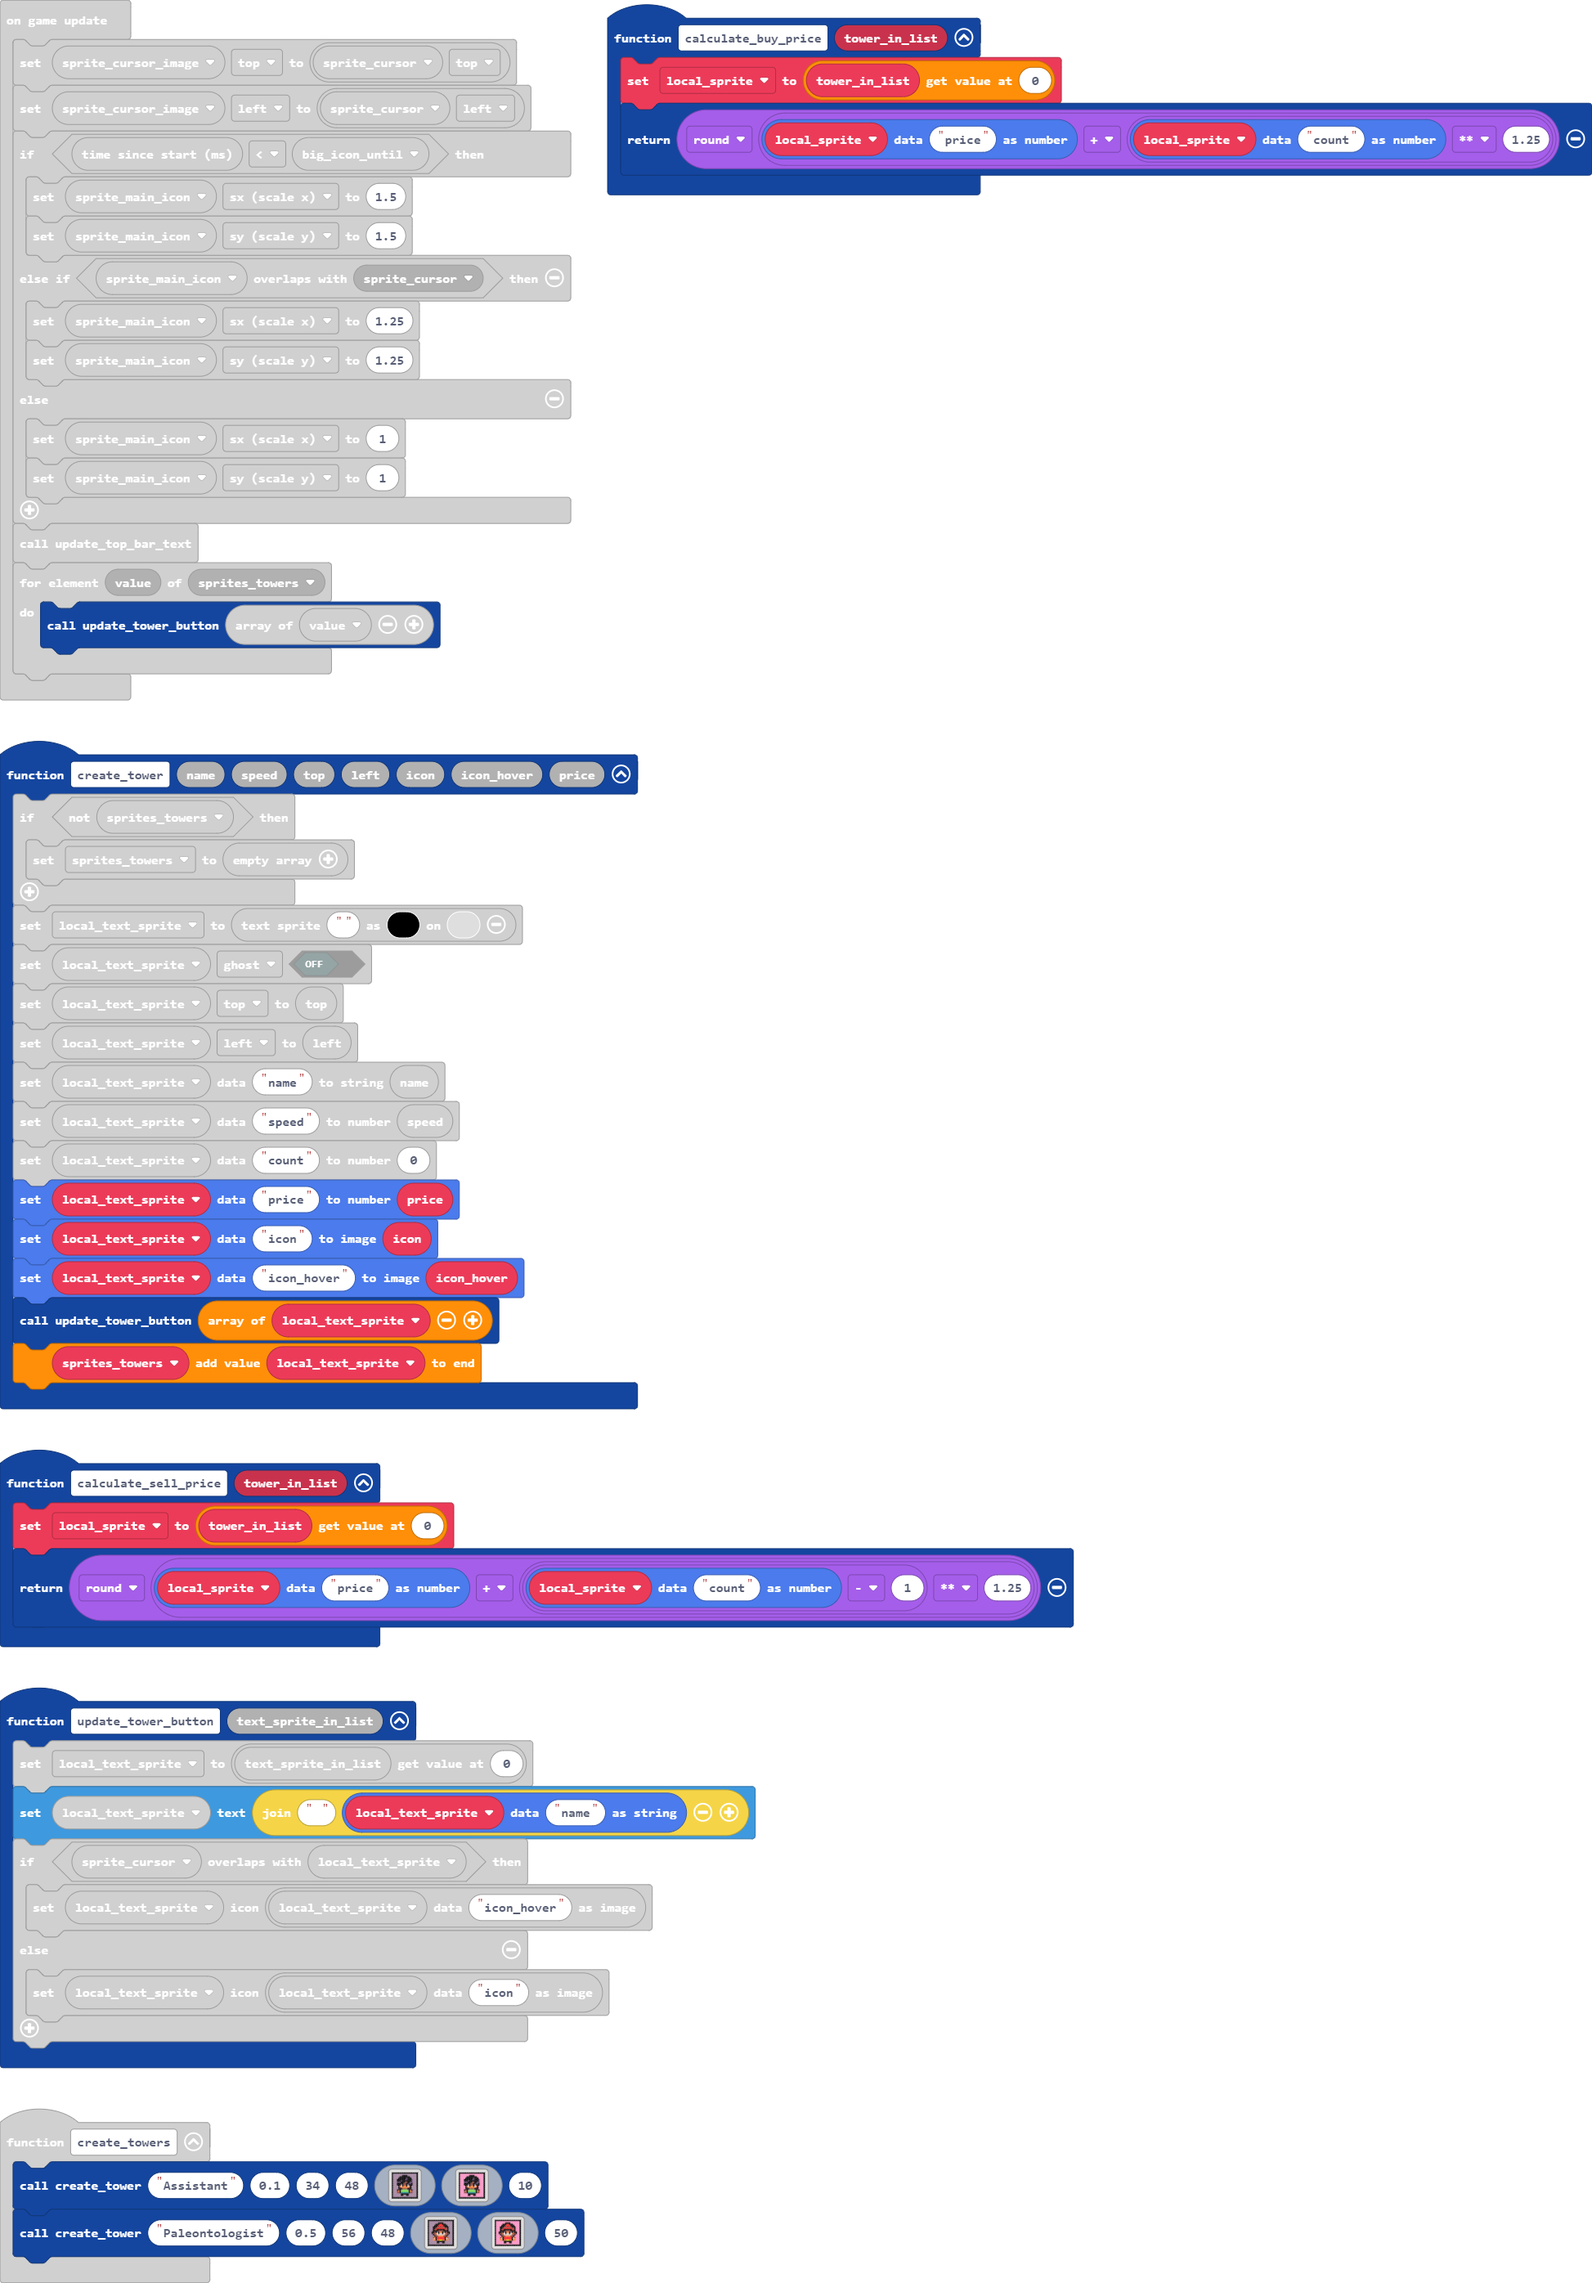
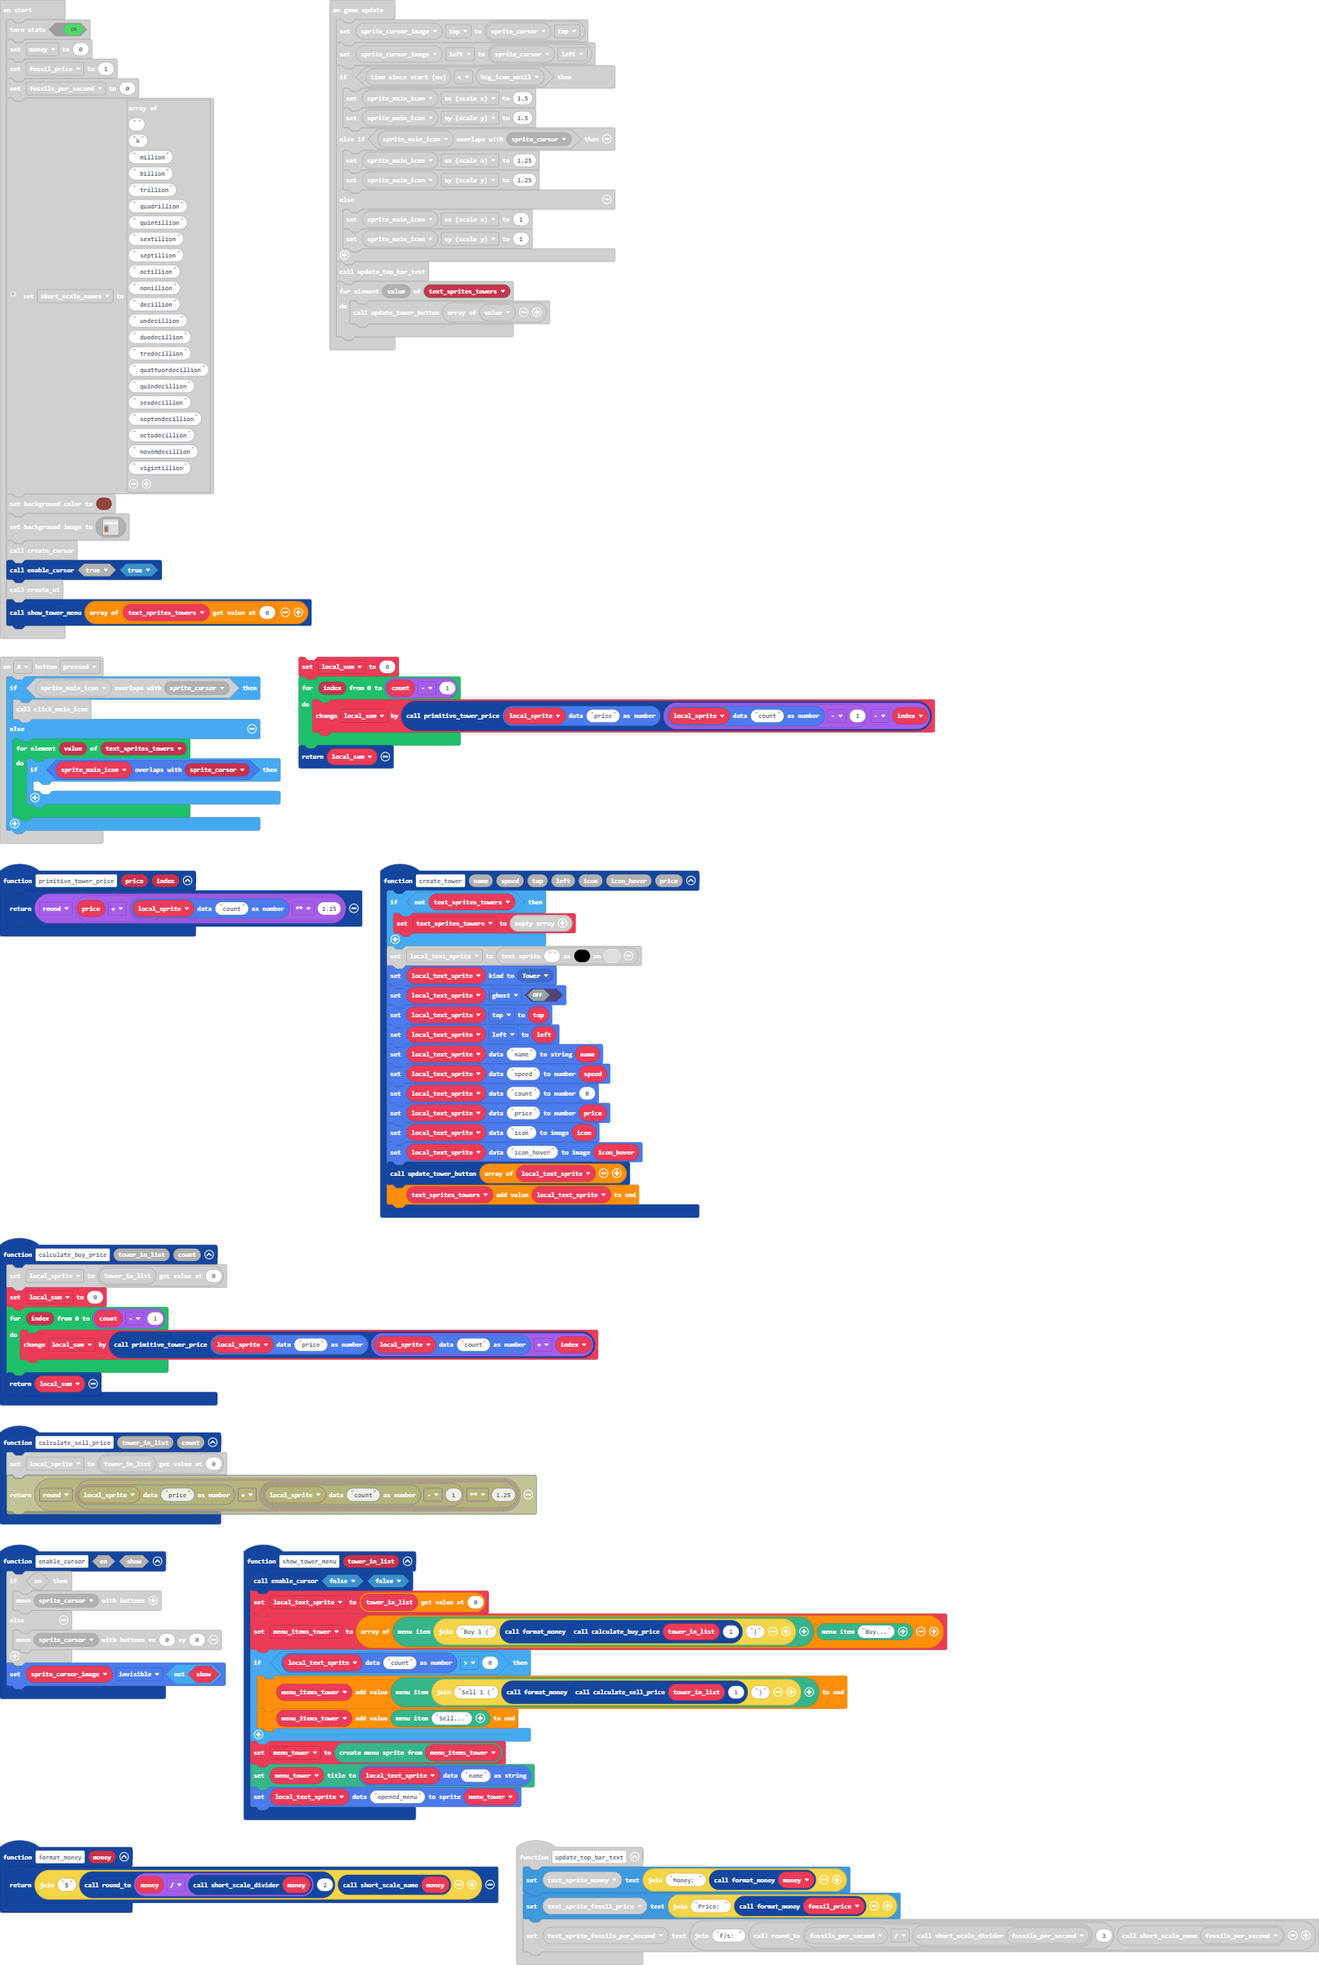
Un-styled menu

diff --git a/main.ts b/main.ts
@@ -1,3 +1,9 @@
+namespace SpriteKind {
+    export const Tower = SpriteKind.create()
+}
+function format_money (money: number) {
+    return "$" + round_to(money / short_scale_divider(money), 2) + short_scale_name(money)
+}
 function create_top_section () {
     text_sprite_money = create_label("", 3, 3)
     text_sprite_fossil_price = create_label("", 12, 3)
@@ -19,6 +25,12 @@ function create_label (text: string, top: number, left: number) {
 controller.A.onEvent(ControllerButtonEvent.Pressed, function () {
     if (sprite_main_icon.overlapsWith(sprite_cursor)) {
         click_main_icon()
+    } else {
+        for (let value of text_sprites_towers) {
+            if (sprite_main_icon.overlapsWith(sprite_cursor)) {
+            	
+            }
+        }
     }
 })
 function short_scale_divider (num: number) {
@@ -33,14 +45,26 @@ function create_towers () {
     create_tower("Assistant", 0.1, 34, 48, assets.image`assistant_icon`, assets.image`assistant_icon_selected`, 10)
     create_tower("Paleontologist", 0.5, 56, 48, assets.image`paleontologist_icon`, assets.image`paleontologist_icon_selected`, 50)
 }
+function show_tower_menu (tower_in_list: TextSprite[]) {
+    enable_cursor(false, false)
+    local_text_sprite = tower_in_list[0]
+    menu_items_tower = [miniMenu.createMenuItem("Buy 1 (" + format_money(calculate_buy_price(tower_in_list, 1)) + ")"), miniMenu.createMenuItem("Buy...")]
+    if (sprites.readDataNumber(local_text_sprite, "count") > 0) {
+        menu_items_tower.push(miniMenu.createMenuItem("Sell 1 (" + format_money(calculate_sell_price(tower_in_list, 1)) + ")"))
+        menu_items_tower.push(miniMenu.createMenuItem("Sell..."))
+    }
+    menu_tower = miniMenu.createMenuFromArray(menu_items_tower)
+    menu_tower.setTitle(sprites.readDataString(local_text_sprite, "name"))
+    sprites.setDataSprite(local_text_sprite, "opened_menu", menu_tower)
+}
 function create_main_icon () {
     sprite_main_icon = sprites.create(assets.image`shovel`, SpriteKind.Player)
     sprite_main_icon.left = 10
     sprite_main_icon.y = 85
 }
 function update_top_bar_text () {
-    text_sprite_money.setText("Money: $" + round_to(money / short_scale_divider(money), 2) + short_scale_name(money))
-    text_sprite_fossil_price.setText("Price: $" + round_to(fossil_price / short_scale_divider(fossil_price), 2) + short_scale_name(fossil_price))
+    text_sprite_money.setText("Money: " + format_money(money))
+    text_sprite_fossil_price.setText("Price: " + format_money(fossil_price))
     text_sprite_fossils_per_second.setText("F/s: " + round_to(fossils_per_second / short_scale_divider(fossils_per_second), 3) + short_scale_name(fossils_per_second))
 }
 function create_cursor () {
@@ -51,9 +75,13 @@ function create_cursor () {
     sprite_cursor_image.setFlag(SpriteFlag.Ghost, true)
     sprite_cursor_image.z = 100
 }
-function calculate_sell_price (tower_in_list: Sprite[]) {
+function calculate_sell_price (tower_in_list: Sprite[], count: number) {
     local_sprite = tower_in_list[0]
-    return Math.round(sprites.readDataNumber(local_sprite, "price") + (sprites.readDataNumber(local_sprite, "count") - 1) ** 1.25)
+    local_sum = 0
+    for (let index = 0; index <= count - 1; index++) {
+        local_sum += primitive_tower_price(sprites.readDataNumber(local_sprite, "price"), sprites.readDataNumber(local_sprite, "count") - 1 - index)
+    }
+    return local_sum
 }
 function update_tower_button (text_sprite_in_list: TextSprite[]) {
     local_text_sprite = text_sprite_in_list[0]
@@ -75,26 +103,35 @@ function short_scale_name (num: number) {
     }
     return 1
 }
+function primitive_tower_price (price: number, index: number) {
+    return Math.round(price + sprites.readDataNumber(local_sprite, "count") ** 1.25)
+}
 function click_main_icon () {
     big_icon_until = game.runtime() + 100
     money += fossil_price
 }
-function enable_cursor (en: boolean) {
+function enable_cursor (en: boolean, show: boolean) {
     if (en) {
         controller.moveSprite(sprite_cursor)
     } else {
         controller.moveSprite(sprite_cursor, 0, 0)
     }
+    sprite_cursor_image.setFlag(SpriteFlag.Invisible, !(show))
 }
-function calculate_buy_price (tower_in_list: Sprite[]) {
+function calculate_buy_price (tower_in_list: Sprite[], count: number) {
     local_sprite = tower_in_list[0]
-    return Math.round(sprites.readDataNumber(local_sprite, "price") + sprites.readDataNumber(local_sprite, "count") ** 1.25)
+    local_sum = 0
+    for (let index = 0; index <= count - 1; index++) {
+        local_sum += primitive_tower_price(sprites.readDataNumber(local_sprite, "price"), sprites.readDataNumber(local_sprite, "count") + index)
+    }
+    return local_sum
 }
 function create_tower (name: string, speed: number, top: number, left: number, icon: Image, icon_hover: Image, price: number) {
-    if (!(sprites_towers)) {
-        sprites_towers = []
+    if (!(text_sprites_towers)) {
+        text_sprites_towers = []
     }
     local_text_sprite = textsprite.create("", 0, 15)
+    local_text_sprite.setKind(SpriteKind.Tower)
     local_text_sprite.setFlag(SpriteFlag.Ghost, false)
     local_text_sprite.top = top
     local_text_sprite.left = left
@@ -105,18 +142,21 @@ function create_tower (name: string, speed: number, top: number, left: number, i
     sprites.setDataImageValue(local_text_sprite, "icon", icon)
     sprites.setDataImageValue(local_text_sprite, "icon_hover", icon_hover)
     update_tower_button([local_text_sprite])
-    sprites_towers.push(local_text_sprite)
+    text_sprites_towers.push(local_text_sprite)
 }
-let sprites_towers: TextSprite[] = []
 let big_icon_until = 0
+let local_sum = 0
 let local_sprite: Sprite = null
 let sprite_cursor_image: Sprite = null
+let menu_tower: miniMenu.MenuSprite = null
+let menu_items_tower: miniMenu.MenuItem[] = []
 let sprite_cursor: Sprite = null
 let sprite_main_icon: Sprite = null
 let local_text_sprite: TextSprite = null
 let text_sprite_fossils_per_second: TextSprite = null
 let text_sprite_fossil_price: TextSprite = null
 let text_sprite_money: TextSprite = null
+let text_sprites_towers: TextSprite[] = []
 let short_scale_names: string[] = []
 let fossils_per_second = 0
 let fossil_price = 0
@@ -154,8 +194,9 @@ short_scale_names = [
 scene.setBackgroundColor(14)
 scene.setBackgroundImage(assets.image`background`)
 create_cursor()
-enable_cursor(true)
+enable_cursor(true, true)
 create_ui()
+show_tower_menu([text_sprites_towers[0]])
 game.onUpdate(function () {
     sprite_cursor_image.top = sprite_cursor.top
     sprite_cursor_image.left = sprite_cursor.left
@@ -170,7 +211,7 @@ game.onUpdate(function () {
         sprite_main_icon.sy = 1
     }
     update_top_bar_text()
-    for (let value of sprites_towers) {
+    for (let value of text_sprites_towers) {
         update_tower_button([value])
     }
 })
